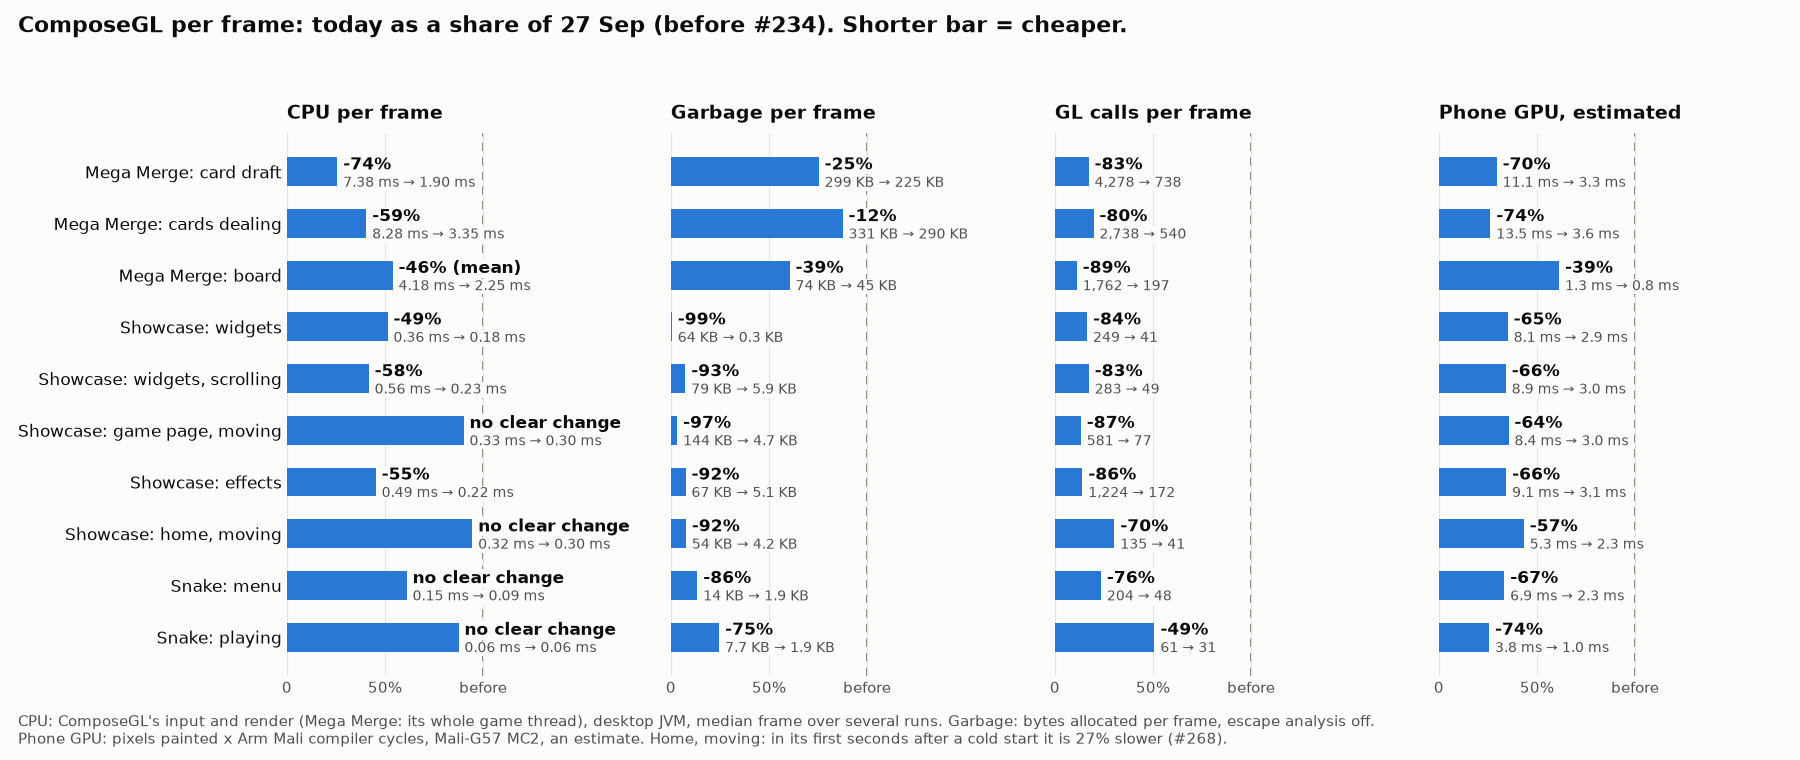
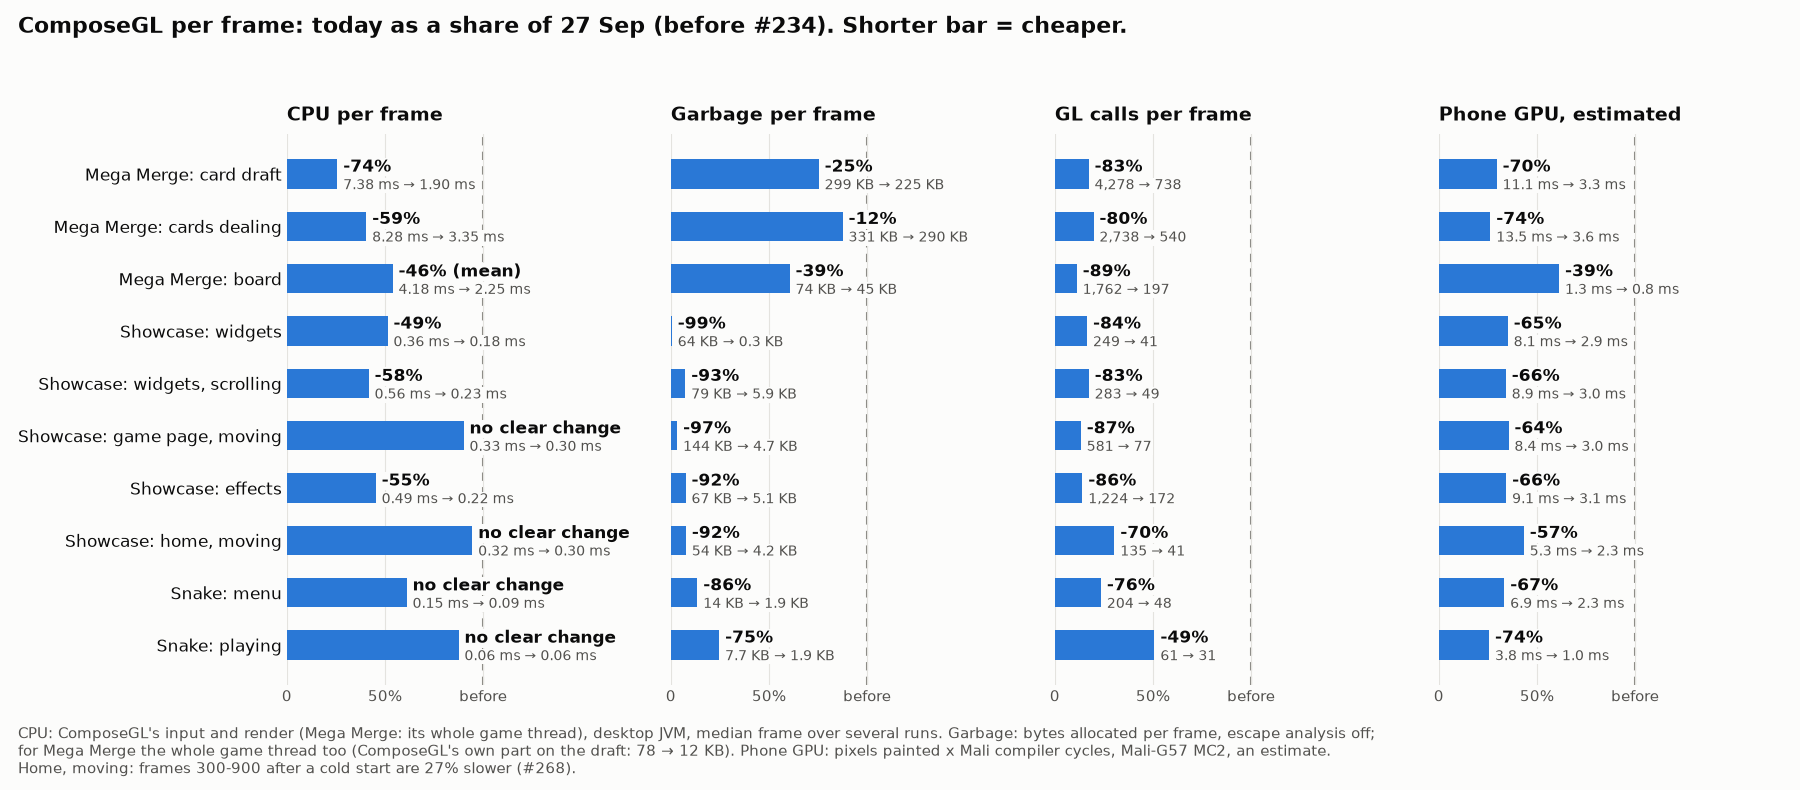
wip(probe): review round 3 - Android frame rates per pass, the warm-up stated as frames, the chart's footnote

diff --git a/probe/267/android_tables.py b/probe/267/android_tables.py
@@ -1,38 +1,48 @@
-"""android_tables.py: Mega Merge on the emulator, per phase and side, from measure.sh's runs (#267)."""
-import glob, os, re, statistics as st
+"""android_tables.py: Mega Merge on the emulator, one row per pass, from measure.sh's runs (#267).
+
+Two readings per pass and phase:
+- the probe's (one line per 300 frames): the frame rate, the GL thread's CPU per frame, and
+  ComposeGL's `UiRenderer.render` within it, taking the windows that lie wholly inside the phase;
+- the emulator's own `app_time_stats` (one line a second, the game's process only): the game's
+  time per frame and how many frames each second drew.
+"""
+import os, re, statistics as st
 D = os.environ.get('PROBE267_ANDROID') or os.path.join(os.path.dirname(os.path.abspath(__file__)), 'data', 'raw', 'android')
-def windows(run):
-    out = []
-    for line in open(f'{run}/probe.txt'):
-        m = re.search(r'^\s*([\d.]+).*frames=(\d+) fps=([\d.]+) cpu\[mean ([\d.]+) median ([\d.]+) p10 ([\d.]+) p90 ([\d.]+)\] ui\[mean ([\d.]+) median ([\d.]+)', line)
-        if not m: continue
-        t, frames, fps = float(m.group(1)), int(m.group(2)), float(m.group(3))
-        out.append({'start': t - frames / fps, 'end': t, 'fps': fps, 'cpu_mean': float(m.group(4)), 'cpu_med': float(m.group(5)),
-                    'cpu_p90': float(m.group(7)), 'ui_mean': float(m.group(8)), 'ui_med': float(m.group(9))})
-    return out
+# The hand each pass dealt, read off its draft.png: a glowing (uncommon) card costs more to draw.
+HANDS = {'run-before-1': 'plain', 'run-after-2': 'plain', 'run-before-2': 'one glowing (uncommon)', 'run-after-1': 'one glowing (uncommon)'}
+
 def phases(run):
     marks = {}
     for line in open(f'{run}/phases.txt'):
         t, name = line.split(); marks[name] = float(t)
-    return {p: (marks[p + '-start'], marks[p + '-end']) for p in ['draft-open', 'board-still'] if p + '-start' in marks}
-res = {}
-for run in sorted(glob.glob(f'{D}/run-*-*')):
-    if not os.path.isdir(run): continue
-    side = os.path.basename(run).split('-')[1]
-    ws = windows(run)
-    for ph, (a, b) in phases(run).items():
-        inside = [w for w in ws if w['start'] >= a - 0.2 and w['end'] <= b + 0.2]
-        res.setdefault((ph, side), []).extend(inside)
-        print(os.path.basename(run), ph, len(inside), 'windows', ' '.join(f"{w['fps']:.0f}fps/{w['cpu_med']:.2f}/{w['ui_med']:.2f}" for w in inside))
-print()
-print('| Screen | fps | GL-thread CPU per frame, median, ms | of which ComposeGL (`UiRenderer.render`), ms |')
-print('|---|---|---|---|')
-for ph, name in [('draft-open', 'Card draft, open'), ('board-still', 'Board, still')]:
-    row = []
-    for key in ['fps', 'cpu_med', 'ui_med']:
-        b = st.median([w[key] for w in res.get((ph, 'before'), [])]) if res.get((ph, 'before')) else None
-        a = st.median([w[key] for w in res.get((ph, 'after'), [])]) if res.get((ph, 'after')) else None
-        if b is None or a is None: row.append('-'); continue
-        f = '{:.0f}' if key == 'fps' else '{:.2f}'
-        row.append(f'{f.format(b)} → {f.format(a)} ({(a - b) / b * 100:+.0f}%)')
-    print(f'| {name} | ' + ' | '.join(row) + ' |')
+    return {p: (marks[p + '-start'], marks[p + '-end']) for p in ['draft-open', 'board-still']}
+
+def probe(run, a, b):
+    rows = []; pid = None
+    for line in open(f'{run}/probe.txt'):
+        m = re.search(r'^\s*([\d.]+)\s+(\d+)\s+\d+ I FrameProbe267: frames=(\d+) fps=([\d.]+) cpu\[mean [\d.]+ median ([\d.]+) .*?ui\[mean [\d.]+ median ([\d.]+)', line)
+        if not m: continue
+        pid = m.group(2)
+        end = float(m.group(1)); start = end - int(m.group(3)) / float(m.group(4))
+        if start >= a - 0.2 and end <= b + 0.2:
+            rows.append((float(m.group(4)), float(m.group(5)), float(m.group(6))))
+    return pid, {'fps': st.median(r[0] for r in rows), 'cpu': st.median(r[1] for r in rows), 'ui': st.median(r[2] for r in rows)}
+
+def frametimes(run, pid, a, b):
+    rows = []
+    for line in open(f'{run}/frametimes.txt'):
+        m = re.search(r'^\s*([\d.]+)\s+(\d+)\s+\d+ D EGL_emulation: app_time_stats: avg=([\d.]+)ms .*count=(\d+)', line)
+        if m and m.group(2) == pid and a <= float(m.group(1)) <= b:
+            rows.append((float(m.group(3)), int(m.group(4))))
+    return {'app': st.median(r[0] for r in rows), 'lowest': min(r[1] for r in rows), 'under58': sum(1 for r in rows if r[1] < 58), 'seconds': len(rows)}
+
+print('| Pass | Cards dealt | Open draft: frames a second, median (lowest second) | seconds under 58 | game\'s time per frame (`app_time_stats`), ms | GL-thread CPU per frame, ms | of which ComposeGL, ms | Board: GL-thread CPU, ms | of which ComposeGL, ms |')
+print('|---|---|---|---|---|---|---|---|---|')
+for run in ['run-before-1', 'run-after-2', 'run-before-2', 'run-after-1']:
+    path = os.path.join(D, run)
+    ph = phases(path)
+    pid, draft = probe(path, *ph['draft-open'])
+    _, board = probe(path, *ph['board-still'])
+    ft = frametimes(path, pid, *ph['draft-open'])
+    name = run.replace('run-', '').replace('-', ' ')
+    print(f"| {name} | {HANDS[run]} | {draft['fps']:.0f} ({ft['lowest']}) | {ft['under58']} of {ft['seconds']} | {ft['app']:.2f} | {draft['cpu']:.2f} | {draft['ui']:.2f} | {board['cpu']:.2f} | {board['ui']:.2f} |")

diff --git a/probe/267/chart.py b/probe/267/chart.py
@@ -27,7 +27,7 @@ cols = [
     ('gpu57', 'Phone GPU, estimated', lambda v: f'{v:.1f} ms'),
 ]
 plt.rcParams.update({'font.family': 'DejaVu Sans', 'font.size': 12})
-fig, axes = plt.subplots(1, len(cols), figsize=(18, 7.6), sharey=True, facecolor=SURFACE)
+fig, axes = plt.subplots(1, len(cols), figsize=(18, 7.9), sharey=True, facecolor=SURFACE)
 y = list(range(len(rows)))[::-1]
 for ax, (key, title, fmt) in zip(axes, cols):
     ax.set_facecolor(SURFACE)
@@ -61,10 +61,10 @@ for ax, (key, title, fmt) in zip(axes, cols):
 axes[0].set_yticks(y)
 axes[0].set_yticklabels([r[1] for r in rows], color=INK, fontsize=12)
 fig.suptitle('ComposeGL per frame: today as a share of 27 Sep (before #234). Shorter bar = cheaper.', x=0.01, ha='left', color=INK, fontsize=16, fontweight='bold')
-fig.text(0.01, 0.015, 'CPU: ComposeGL\'s input and render (Mega Merge: its whole game thread), desktop JVM, median frame over several runs. Garbage: bytes allocated per frame, escape analysis off.\n'
-         'Phone GPU: pixels painted x Arm Mali compiler cycles, Mali-G57 MC2, an estimate. Home, moving: in its first seconds after a cold start it is 27% slower (#268).',
+fig.text(0.01, 0.015, 'CPU: ComposeGL\'s input and render (Mega Merge: its whole game thread), desktop JVM, median frame over several runs. Garbage: bytes allocated per frame, escape analysis off;\n'
+         'for Mega Merge the whole game thread too (ComposeGL\'s own part on the draft: 78 \u2192 12 KB). Phone GPU: pixels painted x Mali compiler cycles, Mali-G57 MC2, an estimate.\nHome, moving: frames 300-900 after a cold start are 27% slower (#268).',
          color=INK2, fontsize=10.5, ha='left', va='bottom')
-fig.tight_layout(rect=(0, 0.06, 1, 0.94))
+fig.tight_layout(rect=(0, 0.085, 1, 0.94))
 out = sys.argv[1] if len(sys.argv) > 1 else f'{S}/before-after.png'
 fig.savefig(out, dpi=100, facecolor=SURFACE)
 print(out)

diff --git a/probe/267/report.md b/probe/267/report.md
@@ -1,14 +1,14 @@
 ## Before and after: yes, ComposeGL is much faster (solo-dev-1)
 
-**Plain answer.** Yes. On the same screens, today's master does a fraction of the work the commit before #234 did. One reading got slower: the moving home page in the first seconds after a cold start, filed as #268. A few counts went up by design; they are listed under "Did anything go up?".
+**Plain answer.** Yes. On the same screens, today's master does a fraction of the work the commit before #234 did. One reading got slower: the moving home page early after a cold start, filed as #268. A few counts went up by design; they are listed under "Did anything go up?".
 
 - **Mega Merge's card draft** (its busiest screen):
   - Estimated phone GPU time fell **70%** (11.1 → 3.3 ms on a mid-range Mali). It paints half the pixels, a fifth of the offscreen-picture area, and sends 83% fewer GL calls.
   - The game thread's CPU per frame on this desktop fell **74%** (7.4 → 1.9 ms).
   - ComposeGL's own part of it fell **92%** (6.5 → 0.5 ms). That part is `UiRenderer.render`, including the graphics driver's time for the GL calls it makes.
-  - **On Android** (an emulator, release builds), both sides hold the game's 60 fps. On the open draft the GL thread's CPU per frame fell **29-43%**, and ComposeGL's part of it 40-48%. The range comes from the random deal:
-    - With plain cards: 11.0 → 7.8 ms.
-    - With a glowing card dealt: 15.4 → 8.8 ms.
+  - **On Android** (an emulator, release builds), the open draft's GL-thread CPU per frame fell **29-43%**, and ComposeGL's part of it 40-48%. The range comes from the random deal:
+    - With plain cards: 11.0 → 7.8 ms, at 60 fps both sides.
+    - With a glowing card dealt: 15.4 → 8.8 ms. The old build dropped frames: 4 seconds of 30 drew under 58 frames, the worst only 44. The new one held 57-60 every second.
 - **Showcase and snake:**
   - GL calls per frame are **70-90% lower** on showcase pages, and 49-76% lower on snake.
   - Garbage per frame is **74-99% lower**. Still showcase pages went from 38-142 KB a frame to 2 KB or less; the effects page is the exception at 5 KB.
@@ -16,8 +16,9 @@
   - CPU time per frame is **clearly lower on 12 of 17 screens**: 12-63% on the median frame.
     - "Clearly" means the after run was lower in at least 4 of the 5 back-to-back pairs.
     - On the other five, the median frame shows no clear change: the moving home and game pages, the still surfaces page, and snake's menu and play. Their fastest tenth of frames (the reading this shared machine disturbs least) is still 31-63% lower.
-  - **The one slower reading** is on the moving home page, in its first seconds after a cold start of the desktop JVM.
+  - **The one slower reading** is on the moving home page, early after a cold start of the desktop JVM.
     - Frames 300-900 cost 27% more on the median frame: 0.48 → 0.61 ms, over 6 alternating runs that do not overlap.
+    - That is 5-15 s of a game drawn at 60 fps; the probe draws as fast as it can. Frames 900-3,000 were not measured, so when the slowdown ends is not known.
     - Once warm, the same page is 49% cheaper: 0.38 → 0.19 ms, over 1,200 frames measured after a 3,000-frame warm-up.
     - Today's code on that page takes longer to reach full JIT speed. Filed as #268.
 
@@ -167,18 +168,23 @@ How to read the tables:
   4. The draft is held open for 30 s, then skipped.
   5. Four fruit are dropped, and the board is held for 30 s.
 - **Runs:** 2 passes per side, alternating.
-- **Reading:** a listener round the game logs every 300 frames: the frame rate, the GL thread's CPU per frame, and ComposeGL's `UiRenderer.render` within it. Each figure is a pass's median over the 300-frame windows that lie wholly inside a phase, 5 per phase.
+- **Readings:**
+  - A listener round the game logs, every 300 frames, the GL thread's CPU per frame and ComposeGL's `UiRenderer.render` within it. Each CPU figure is a pass's median over the 300-frame windows that lie wholly inside a phase, 5 per phase.
+  - The emulator's own `app_time_stats`, from the game's process only, give the game's time per frame and the frames drawn in each second of the phase. They come from about 30 one-second readings per phase.
 
-| Pass | Cards dealt | fps | Open draft: GL-thread CPU per frame, ms | of which ComposeGL, ms | Board: GL-thread CPU, ms | of which ComposeGL, ms |
-|---|---|---|---|---|---|---|
-| before 1 | plain | 60 | 11.00 | 8.26 | 7.24 | 3.88 |
-| after 2 | plain | 60 | 7.80 (−29% on before 1) | 4.95 (−40%) | 5.50 | 1.85 |
-| before 2 | one glowing (uncommon) | 60 | 15.40 | 11.86 | 7.37 | 3.92 |
-| after 1 | one glowing (uncommon) | 60 | 8.79 (−43% on before 2) | 6.18 (−48%) | 6.33 | 1.99 |
+| Pass | Cards dealt | Open draft: frames a second, median (lowest second) | seconds under 58 | game's time per frame (`app_time_stats`), ms | GL-thread CPU per frame, ms | of which ComposeGL, ms | Board: GL-thread CPU, ms | of which ComposeGL, ms |
+|---|---|---|---|---|---|---|---|---|
+| before 1 | plain | 60 (54) | 1 of 30 | 12.11 | 11.00 | 8.26 | 7.24 | 3.88 |
+| after 2 | plain | 60 (60) | 0 of 30 | 8.63 | 7.80 | 4.95 | 5.50 | 1.85 |
+| before 2 | one glowing (uncommon) | 59 (44) | 4 of 30 | 16.52 | 15.40 | 11.86 | 7.37 | 3.92 |
+| after 1 | one glowing (uncommon) | 60 (57) | 1 of 30 | 9.93 | 8.79 | 6.18 | 6.33 | 1.99 |
 
 - **The deal matters.** The cards are dealt at random, and a glowing uncommon card costs more to draw. So each pass is set against the pass on the other side that dealt the same kind of hand.
-- **Board:** 7.2-7.4 → 5.5-6.3 ms on the GL thread. ComposeGL's part went 3.9 → 1.9-2.0 ms.
-- **Frame rate:** the game asks for 60 fps and both sides hold it. The gain shows as time left over in each 16.7 ms frame, not as frames.
+- **Board:** 7.2-7.4 → 5.5-6.3 ms on the GL thread. ComposeGL's part went 3.9 → 1.9-2.0 ms. Both sides hold 60 fps there.
+- **Frame rate:** the game asks for 60 fps.
+  - With a plain hand, both sides hold it, and the gain shows as time left over in each 16.7 ms frame: 12.1 → 8.6 ms.
+  - With a glowing card dealt, the old build ran out of time. Its frames took 16.5 ms against a 16.7 ms budget, it drew under 58 frames in 4 of the 30 seconds, and its worst second drew 44.
+  - The new build took 9.9 ms a frame and drew 57 or more every second.
 - **Why ComposeGL's share is large here:** its part includes every GL call it makes, and the emulator makes each call expensive by shipping it to the host GPU (#241 saw the same). So ComposeGL's share is much larger here than on the desktop.
 - **#241's 40 fps** for this draft on the same emulator came from other commits of both the game (`1ae4a71e6`) and ComposeGL (`b4d3a7fd`), so it is not comparable with these.
 - **Not measured on Android:** the draft while the cards deal. It lasts 3 s, shorter than one 300-frame reading.
@@ -218,10 +224,10 @@ One reading got slower, and it is filed as #268: the moving home page right afte
 
 | What rose | Where | Before → after | Why | What it costs |
 |---|---|---|---|---|
-| Shader program switches | surfaces page; Mega Merge board; open draft; effects page | 2 → 18; 2 → 16; 14 → 39; 7 → 12 | #245 split the one shape program into three, so that letters, pictures and plain boxes run at full occupancy. Lit surfaces, inner shades and colour runs now switch to the full program. | On the surfaces page, 14 draw calls exist only because of a program change. Even so, draw calls fell overall (29 → 19 there, 92 → 77 on the open draft), GL calls fell 83-90%, and CPU fell on the same screens. |
+| Shader program switches | surfaces page; Mega Merge board; open draft; effects page | 2 → 18; 2 → 16; 14 → 39; 7 → 12 | #245 split the one shape program into three, so that letters, pictures and plain boxes run at full occupancy. Lit surfaces, inner shades and colour runs now switch to the full program. | On the surfaces page, 14 draw calls exist only because of a program change. Even so, draw calls fell overall (29 → 19 there, 92 → 77 on the open draft), and GL calls fell 83-90%. CPU fell clearly on the moving surfaces page, the effects page, the board (by its mean) and the open draft. On the still surfaces page, the median frame shows no clear change. |
 | Quads per frame | snake menu; snake playing; draft while dealing | 216 → 255; 114 → 135; 636 → 771 | #246 draws a box as its flat middle plus its edge, so one box can be several quads. | Vertex bytes still fell on all three (105 → 88 KB, 55 → 46 KB, 308 → 265 KB), because a vertex is 88 bytes instead of 124. Pixels and the GPU estimate fell too. |
-| Scissor changes | Mega Merge board; draft while dealing; open draft; effects page | 0 → 6; 0 → 11; 6 → 19; 2 → 6 | They rose only on the four screens that lost offscreen pictures (5 → 0, 6 → 2, 8 → 4, 5 → 2). That points to clips now being set on the screen with the scissor, where before they were the edge of a picture. | They are inside the GL-call totals, which fell 80-89% on those screens, and draw calls fell too. |
-| CPU per frame in the first seconds after a cold start | showcase home, moving; frames 300-900 of a fresh desktop JVM | median 0.48 → 0.61 ms (+27%); slowest tenth 1.02 → 1.31 ms | Today's code on this page takes longer to reach full JIT speed. Which code is not known yet: a JFR profile changed the result and caught too few samples. | Up to about 15 seconds after a start. Once warm, the page is 49% cheaper (0.38 → 0.19 ms, 1,200 frames after a 3,000-frame warm-up). Filed as #268. Android compiles ahead of time, so a phone may not see it. |
+| Scissor changes | Mega Merge board; draft while dealing; open draft; effects page | 0 → 6; 0 → 11; 6 → 19; 2 → 6 | They rose on four of the five screens that lost offscreen pictures (5 → 0, 6 → 2, 8 → 4, 5 → 2). That points to clips now being set on the screen with the scissor, where before they were the edge of a picture. The fifth is the animation page: it lost its one picture, and its scissor changes fell 6 → 4. | They are inside the GL-call totals, which fell 80-89% on those screens, and draw calls fell too. |
+| CPU per frame in the first seconds after a cold start | showcase home, moving; frames 300-900 of a fresh desktop JVM | median 0.48 → 0.61 ms (+27%); slowest tenth 1.02 → 1.31 ms | Today's code on this page takes longer to reach full JIT speed. Which code is not known yet: a JFR profile changed the result and caught too few samples. | Frames 300-900 of a fresh JVM, which is 5-15 s at 60 fps. Frames 900-3,000 were not measured, so when it ends is not known. Once warm, the page is 49% cheaper (0.38 → 0.19 ms, 1,200 frames after a 3,000-frame warm-up). Filed as #268. Android compiles ahead of time, so a phone may not see it. |
 
 ### Reproducing
 
